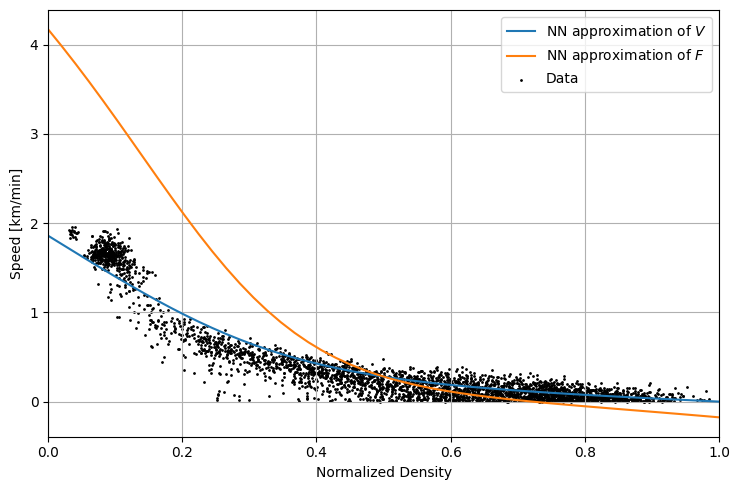
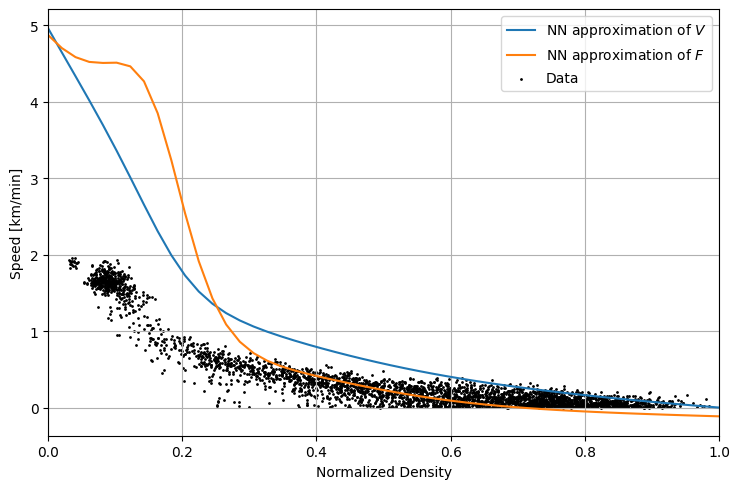
add plotdensitymovie

diff --git a/neural_network_pytorch.py b/neural_network_pytorch.py
@@ -170,7 +170,27 @@ class NeuralNetwork(nn.Module):
         plt.figure(figsize=(12, 6))  # Set figure size, adjust as needed
         
         # First subplot for predicted u values
-        plt.subplot(2, 2, 1)  # 1 row, 2 columns, subplot 1
+        plt.subplot(3, 3, 1)  # 1 row, 2 columns, subplot 1
+        for (t, x, u) in zip(self.t, self.x, self.u):  # No need to iterate over u for prediction plot
+            u_pred = self.net_u(t, x)
+            u_pred = u_pred.detach().numpy()
+            plt.scatter(t.detach().numpy(), x.detach().numpy(), c=u_pred, cmap='rainbow', vmin=-1, vmax=1, s=5)
+        plt.xlabel(r'Time [min]')
+        plt.ylabel(r'Position [km]')
+        plt.colorbar(label='Predicted u')
+        # plt.title('Predicted Values at data points')
+        plt.title('Predicted at data points')
+        
+        # Second subplot for actual u values
+        plt.subplot(3, 3, 2)  # 1 row, 2 columns, subplot 2
+        for (t, x, u) in zip(self.t, self.x, self.u):
+            plt.scatter(t.detach().numpy(), x.detach().numpy(), c=u.detach().numpy(), cmap='rainbow', vmin=-1, vmax=1, s=5)
+        plt.xlabel(r'Time [min]')
+        plt.ylabel(r'Position [km]')
+        plt.colorbar(label='Actual u')
+        plt.title('Actual Values')
+
+        plt.subplot(3, 3, 3)  # 1 row, 2 columns, subplot 1
         for (t, x, u) in zip(self.t, self.x, self.u):  # No need to iterate over u for prediction plot
             u_pred = self.net_u(t, x)
             u_pred = u_pred.detach().numpy()
@@ -180,17 +200,8 @@ class NeuralNetwork(nn.Module):
         plt.colorbar(label='Predicted u')
         # plt.title('Predicted Values at data points')
         plt.title('Prediction error at data points')
-        
-        # Second subplot for actual u values
-        plt.subplot(2, 2, 2)  # 1 row, 2 columns, subplot 2
-        for (t, x, u) in zip(self.t, self.x, self.u):
-            plt.scatter(t.detach().numpy(), x.detach().numpy(), c=u.detach().numpy(), cmap='rainbow', vmin=-1, vmax=1, s=5)
-        plt.xlabel(r'Time [min]')
-        plt.ylabel(r'Position [km]')
-        plt.colorbar(label='Actual u')
-        plt.title('Actual Values')
 
-        plt.subplot(2, 2, 3)  # 1 row, 2 columns, subplot 2
+        plt.subplot(3, 3, 4)  # 1 row, 2 columns, subplot 2
         u_pred = self.net_u(self.t_f, self.x_f)
         plt.scatter(self.t_f.detach().numpy(), self.x_f.detach().numpy(), c=u_pred.detach().numpy(), cmap='rainbow', vmin=-1, vmax=1, s=15)
         plt.xlabel(r'Time [min]')
@@ -216,12 +227,24 @@ class NeuralNetwork(nn.Module):
         # Reshape the flat predictions back into the grid shape for plotting
         u_pred_grid = u_pred_flat.reshape(t_grid.shape)
 
-        plt.subplot(2, 2, 4)  # 1 row, 2 columns, subplot 2
+        plt.subplot(3, 3, 5)  
         plt.pcolormesh(t_grid, x_grid, u_pred_grid, cmap='rainbow', shading='auto', vmin=-1, vmax=1)
         plt.xlabel(r'Time [min]')
         plt.ylabel(r'Position [km]')
         plt.colorbar(label='Predicted u')
         plt.title('Predicted Values at Physics Points')
+
+        # fundamental diagram
+        plt.subplot(3, 3, 6)
+        rho = np.linspace(-1, 1, 100)
+        rho = torch.tensor(rho, dtype=torch.float32).unsqueeze(1)
+        v_pred = self.predict_speed(rho)
+        for (t, x, u, v) in zip(self.t, self.x, self.u, self.v):
+            plt.scatter(u.detach().numpy(), v.detach().numpy(), c='blue', s=5)
+        # plt.plot(rho.detach().numpy(), v, c='red')
+        rho = np.linspace(-1,1,100)
+        plt.plot(rho, v_pred, c='red')
+
         
         plt.tight_layout()  # Adjust layout
         plt.show()
@@ -258,8 +281,8 @@ class NeuralNetwork(nn.Module):
             "MSEu1": MSEu1,
             # "MSEtrajectories": MSEtrajectories,
             # "MSEtrajectories": MSEtrajectories0,
-            # "MSEv1": MSEv1,
-            # "MSEv2": MSEv2
+            "MSEv1": MSEv1,
+            "MSEv2": MSEv2
         }
 
 
@@ -273,7 +296,7 @@ class NeuralNetwork(nn.Module):
         return {
             # "MSEf": MSEf,
             # "MSEg": MSEg,
-        #    "MSEv": MSEv
+           "MSEv": MSEv
         }
 
         
@@ -297,10 +320,10 @@ class NeuralNetwork(nn.Module):
 
         
         # Define the optimizer
-        optimizer = optim.Adam(self.parameters(), lr=0.001)
+        optimizer = optim.Adam(self.parameters(), lr=0.005)
        
         # Train the model
-        self.N_epochs = 2000
+        self.N_epochs = 3000
         # self.plot_density_loss_on_trajectory()
         with tqdm(total=self.N_epochs, desc="Training Progress") as pbar:
             for epoch in range(self.N_epochs):
@@ -355,7 +378,7 @@ class NeuralNetwork(nn.Module):
         # v_tanh = torch.square(self.velocity_network(rho))
         v_tanh = self.velocity_network(rho)
         return (v_tanh+1)/2 * self.max_speed * (1-rho) # scaled
-        if self.max_speed is None:
+        if self.max_speed is not None:
             return v_tanh*(1-rho)
         else:
             return (v_tanh*(1+rho)/2 + self.max_speed)*(1-rho)/2

diff --git a/sumo.py b/sumo.py
@@ -103,15 +103,19 @@ class Sumo():
         plt.colorbar()
         plt.show()
 
-    def plotDensityMovie(self):
+    
+
+    def plotDensityMovieHeatmap(self):
         # Setting up the figure for the animation
-        fig, ax = plt.subplots(figsize=(7.5, 5))
+        fig, ax = plt.subplots(figsize=(10, 1))
         # Placeholder for the heatmap
-        heatmap = ax.imshow(np.flipud(self.u[:, 0][:, np.newaxis]), extent=[0, 420, 0, 250], cmap='rainbow', vmin=0.0, vmax=1, aspect='auto')
-        plt.colorbar(heatmap, ax=ax)
-        ax.set_xlabel('Time [sec]')
-        ax.set_ylabel('Position [m]')
-        time_text = ax.text(0.02, 0.95, '', transform=ax.transAxes)  # Placeholder for time annotation
+        heatmap = ax.imshow(np.flipud(self.u[:, 0][:, np.newaxis].T), extent=[0, 420, 0, 250], cmap='inferno', vmin=0.0, vmax=1, aspect='auto')
+
+        ax.set_xlabel('Position [km]')
+        ax.set_yticks([])  # Remove ticks on y-axis
+        ax.set_xticks([]) 
+        # ax.set_xticks([0, 500, 1000, 1500, 2000, 2500])  # Set ticks on x-axis
+        time_text = ax.text(0.83, 0.85, '', transform=ax.transAxes, color='white')  # Placeholder for time annotation
 
         # Initialization function for the animation
         def init():
@@ -124,15 +128,45 @@ class Sumo():
             current_data = self.u[:, frame]
             if current_data.ndim == 1:
                 current_data = current_data[:, np.newaxis]
-            heatmap.set_data(np.flipud(current_data))  # Update the heatmap for the current frame
-            time_text.set_text(f'Time: {frame:.2f} sec')  # Update time annotation
+            heatmap.set_data(np.flipud(current_data).T)  # Update the heatmap for the current frame
+            time_text.set_text(f'Time: {frame:.2f} s')  # Update time annotation
             return heatmap, time_text
 
         # Creating the animation
         ani = FuncAnimation(fig, update, frames=int(420), init_func=init, blit=True)
 
+        # Save the animation in transparant
+        ani.save('heatmap_animation.gif', writer='pillow', fps=50, dpi=400, savefig_kwargs={'transparent': True})
+
+
+    def plotDensityMovie(self):
+        # Setting up the figure for the animation
+        breakpoint()
+        fig, ax = plt.subplots(figsize=(10, 6))
+        line, = ax.plot([], [], lw=2)  # Initialize an empty line plot
+        ax.set_xlim(0, 249)  # Assuming x-axis represents the position, adjust as needed
+        ax.set_ylim(0, np.max(self.u))  # Adjust y-axis limits based on your data range
+        ax.set_xlabel('Position [km]')
+        ax.set_ylabel('Amplitude')
+        time_text = ax.text(0.83, 0.85, '', transform=ax.transAxes)  # Placeholder for time annotation
+        self.u = np.flipud(self.u)
+
+        # Initialization function for the animation
+        def init():
+            line.set_data([], [])
+            return line,
+
+        # Update function for each frame
+        def update(frame):
+            line.set_data(range(250), self.u[:, frame])  # Update the line plot for the current frame
+            time_text.set_text(f'Time: {frame:.2f} s')  # Update time annotation
+            return line, time_text
+
+        # Creating the animation
+        ani = FuncAnimation(fig, update, frames=420, init_func=init, blit=True)
+
         # Save the animation
-        ani.save('heatmap_animation.gif', writer='pillow', fps=30)  
+        ani.save('lineplot_animation.gif', writer='pillow', fps=50, dpi=50)
 
     
     def plotProbeFD(self):

diff --git a/reconstruction_neural_network_pytorch.py b/reconstruction_neural_network_pytorch.py
@@ -90,6 +90,7 @@ class ReconstructionNeuralNetwork():
         sigmas = [1, 0.2, 0.5, 1, 0.5, 0, 1, 0.5, 0]
 
         # max of v is 1.96
+        self.max_speed = v_max
         t_train, x_train, u_train, v_train, X_f_train, t_g_train, u_v_train, v_max = self.createTrainingDataset(t, x, rho, v, v_max, L, Tmax, N_f, N_g, N_v) # Creation of standardized training dataset
         # max of v is 5.49 (due to scaling of time and space)
         self.neural_network = NeuralNetwork(t_train, x_train, u_train, v_train, 
@@ -202,10 +203,10 @@ class ReconstructionNeuralNetwork():
 
         '''
         
-        x = 2*(x - self.lb[0])/(self.ub[0] - self.lb[0])-1
-        t = 2*(t - self.lb[1])/(self.ub[1] - self.lb[1])-1
+        x = 2*(x - self.lb[0])/(self.ub[0] - self.lb[0])-1 # bring x to [-1, 1]
+        t = 2*(t - self.lb[1])/(self.ub[1] - self.lb[1])-1 # bring t to [-1, 1]
         
-        return self.neural_network(t, x)/2+0.5
+        return self.neural_network.net_u(t, x)/2+0.5 # from [-1, 1] to [0, 1]
     
     def predict_speed(self, rho):
         '''
@@ -223,9 +224,11 @@ class ReconstructionNeuralNetwork():
 
         '''
         
-        u = 2*rho-1
-        
-        return self.neural_network.predict_speed(u)*(self.ub[0] - self.lb[0]) / (self.ub[1] - self.lb[1])
+        rho = 2*rho-1 # bring rho to [-1, 1]
+        v_tanh = self.neural_network.predict_speed(rho)
+        v = (v_tanh+1)/2 * self.max_speed * (1-rho)
+        return v*(self.ub[0] - self.lb[0]) / (self.ub[1] - self.lb[1])
+        # return self.neural_network.predict_speed(rho)*(self.ub[0] - self.lb[0]) / (self.ub[1] - self.lb[1])
 
     def predict_F(self, rho):
         '''
@@ -243,7 +246,7 @@ class ReconstructionNeuralNetwork():
 
         '''
         
-        u = 2*rho-1
+        u = 2*rho-1 # bring rho to [-1, 1]
         
         return self.neural_network.predict_F(u)*(self.ub[0] - self.lb[0]) / (self.ub[1] - self.lb[1])
     
@@ -300,7 +303,8 @@ class ReconstructionNeuralNetwork():
         xstar = torch.from_numpy(XY_prediction[:, 1:2]).float()
 
         
-        rho_prediction = self.neural_network.net_u(tstar, xstar).reshape(Nx, Nt)
+        # rho_prediction = self.neural_network.net_u(tstar, xstar).reshape(Nx, Nt)
+        rho_prediction = self.predict(tstar, xstar).reshape(Nx, Nt)
         rho_prediction = rho_prediction.detach().numpy()
         t_pred = [(np.linspace(np.amin(self.t[i]), np.amax(self.t[i]), t.shape[0])).reshape(-1, 1) for i in range(self.Nxi)]
         X_prediction = self.predict_trajectories(t_pred)

diff --git a/sumo_data_visualization.py b/sumo_data_visualization.py
@@ -25,37 +25,37 @@ x_f_train = X_f_train[:, 0:1] # space data points for the PDE [500, 1]
 t_f_train = X_f_train[:, 1:2] # time data points for the PDE [500, 1]
 
 # scatter plot of all training data locations for density
-plt.figure()
-plt.scatter(x_f_train, t_f_train, c='b', s=1)
-for i in range(len(t_train)):
-    plt.scatter(t_train[i], x_train[i], c='r', s=3)
-plt.xlabel('Time')
-plt.ylabel('Position')
-plt.title('Training data locations')
-plt.xlim([-1, 1])
-plt.ylim([-1, 1])
-plt.grid()
-
-
-plt.figure()
-plt.plot(u_v_train, np.zeros_like(u_v_train), 'rx')
-plt.ylabel('Velocity')
-plt.title('Training data locations')
+# plt.figure()
+# plt.scatter(x_f_train, t_f_train, c='b', s=1)
+# for i in range(len(t_train)):
+#     plt.scatter(t_train[i], x_train[i], c='r', s=3)
+# plt.xlabel('Time')
+# plt.ylabel('Position')
+# plt.title('Training data locations')
 # plt.xlim([-1, 1])
 # plt.ylim([-1, 1])
-plt.grid()
+# plt.grid()
 
 
-fig = plt.figure('FD', figsize=(7.5, 5))
-colors = plt.cm.rainbow(np.linspace(0, 1, len(u_train)))
+# plt.figure()
+# plt.plot(u_v_train, np.zeros_like(u_v_train), 'rx')
+# plt.ylabel('Velocity')
+# plt.title('Training data locations')
+# # plt.xlim([-1, 1])
+# # plt.ylim([-1, 1])
+# plt.grid()
 
-for (u, v, color) in zip(u_train, v_train, colors):
-    plt.scatter(u, v, color=color, s=5)
 
-plt.xlabel(r'Density [veh/km]')
-plt.ylabel(r'Speed [km/min]')
-plt.tight_layout()
-plt.show()
+# fig = plt.figure('FD', figsize=(7.5, 5))
+# colors = plt.cm.rainbow(np.linspace(0, 1, len(u_train)))
+
+# for (u, v, color) in zip(u_train, v_train, colors):
+#     plt.scatter(u, v, color=color, s=5)
+
+# plt.xlabel(r'Density [veh/km]')
+# plt.ylabel(r'Speed [km/min]')
+# plt.tight_layout()
+# plt.show()
 
 
 
@@ -63,4 +63,5 @@ plt.show()
 # sumo.plotProbeFD()
 # plt.show()
 
-# sumo.plotDensityMovie()
+# sumo.plotDensityMovieHeatmap()
+sumo.plotDensityMovie()
